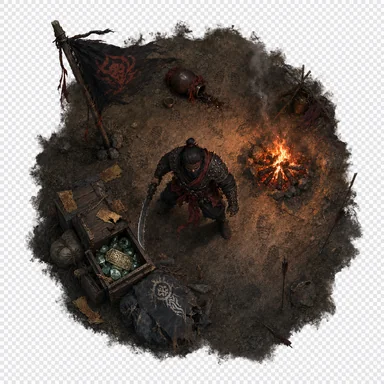
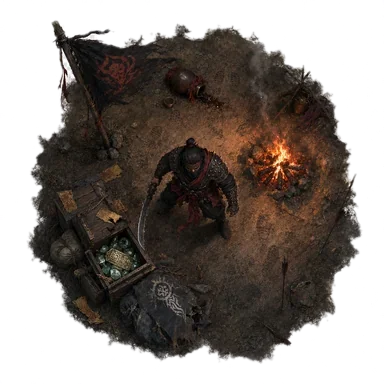
fix(S7A): 抠掉劫匪瓦片背景灰色棋盘格，使其在战场上正确呈现透明圆形

Changed region(s): [[0.0, 0.0, 1.0, 1.0]]

diff --git a/scripts/extract_tile_enemy.py b/scripts/extract_tile_enemy.py
@@ -1,0 +1,117 @@
+# -*- coding: utf-8 -*-
+"""
+抠出 tile_enemy 的劫匪营地（圆形主体），消除外圈灰色棋盘格背景。
+
+策略：
+1. 读取原始图（自动支持 PNG/WebP）。
+2. 从画布四角 flood-fill：识别与四角连通的浅灰棋盘格背景。
+3. 形态学扩张 1 像素吃掉抗锯齿边缘。
+4. 高斯羽化生成柔和 alpha。
+5. 输出 WebP (RGBA)，覆盖 public/images/map/tile_enemy.webp。
+
+用法：
+  python scripts/extract_tile_enemy.py [输入图绝对路径]
+  - 不传参时，默认读取 public/images/map/tile_enemy.webp（就地抠图）
+  - 调试图保存到 scripts/_tile_enemy_cutout.png（每次会被覆盖，可手动删）
+"""
+from pathlib import Path
+import sys
+
+import numpy as np
+from PIL import Image, ImageDraw, ImageFilter
+
+ROOT = Path(__file__).resolve().parent.parent
+DST_WEBP = ROOT / "public" / "images" / "map" / "tile_enemy.webp"
+DBG_PNG = ROOT / "scripts" / "_tile_enemy_cutout.png"
+
+
+def is_grayish_light(arr: np.ndarray) -> np.ndarray:
+    """像素是否为浅灰：r/g/b 极接近且亮度在 195~252。"""
+    r, g, b = arr[..., 0], arr[..., 1], arr[..., 2]
+    max_ch = np.maximum(np.maximum(r, g), b)
+    min_ch = np.minimum(np.minimum(r, g), b)
+    luma = (r.astype(np.int16) + g + b) // 3
+    return ((max_ch - min_ch) <= 8) & (luma >= 195) & (luma <= 252)
+
+
+def dilate_1px(mask: np.ndarray) -> np.ndarray:
+    """对 bool mask 做 1 像素 4-邻域膨胀。"""
+    out = mask.copy()
+    out[1:, :] |= mask[:-1, :]
+    out[:-1, :] |= mask[1:, :]
+    out[:, 1:] |= mask[:, :-1]
+    out[:, :-1] |= mask[:, 1:]
+    return out
+
+
+def main() -> None:
+    src_arg = sys.argv[1] if len(sys.argv) > 1 else None
+    src_path = Path(src_arg).resolve() if src_arg else DST_WEBP
+    if not src_path.exists():
+        raise SystemExit(f"输入图不存在: {src_path}")
+
+    print(f"input  : {src_path}")
+    raw = Image.open(src_path)
+
+    # 防误操作：已抠过的 RGBA 图（存在透明像素）跳过，避免反复侵蚀
+    if raw.mode == "RGBA":
+        a = np.asarray(raw.split()[-1])
+        if (a < 255).any():
+            raise SystemExit(
+                "输入图已是带透明通道的 RGBA，疑似已抠过。如需强制重跑，请改名或先转回 RGB。"
+            )
+
+    im = raw.convert("RGB")
+    arr = np.asarray(im, dtype=np.uint8)
+    h, w, _ = arr.shape
+    print(f"size   : {w}x{h}")
+
+    # 1) 浅灰候选 mask
+    gray_mask = is_grayish_light(arr)
+
+    # 2) 用 PIL.ImageDraw.floodfill 从四角进行连通区域填充
+    #    我们把候选灰色像素涂成纯白 255、其它涂成黑 0，做单通道图像
+    base = (gray_mask.astype(np.uint8) * 255)
+    base_img = Image.fromarray(base, mode="L")
+
+    # 创建一个工作图：把目标区域（255）逐个从四角 flood-fill 成 128（标记为"画布外背景"）
+    work = base_img.copy()
+    seeds = [(0, 0), (w - 1, 0), (0, h - 1), (w - 1, h - 1)]
+    for sx, sy in seeds:
+        if work.getpixel((sx, sy)) == 255:
+            ImageDraw.floodfill(work, (sx, sy), value=128, thresh=0)
+
+    work_arr = np.asarray(work)
+    bg_mask = work_arr == 128  # 与四角连通的灰色
+
+    if not bg_mask.any():
+        print("WARN: 未从四角检测到棋盘格背景，可能源图已是干净底，回退到全部灰色")
+        bg_mask = gray_mask
+
+    # 3) 1 像素膨胀，吃掉边缘抗锯齿
+    bg_mask = dilate_1px(bg_mask)
+
+    # 4) alpha
+    alpha = np.where(bg_mask, 0, 255).astype(np.uint8)
+    alpha_img = Image.fromarray(alpha, mode="L").filter(ImageFilter.GaussianBlur(radius=1.0))
+
+    rgba = im.copy()
+    rgba.putalpha(alpha_img)
+
+    DBG_PNG.parent.mkdir(parents=True, exist_ok=True)
+    rgba.save(DBG_PNG, optimize=True)
+    print(f"debug PNG: {DBG_PNG} ({DBG_PNG.stat().st_size/1024:.1f} KB)")
+
+    DST_WEBP.parent.mkdir(parents=True, exist_ok=True)
+    rgba.save(DST_WEBP, format="WEBP", quality=85, method=6)
+    print(f"output WEBP: {DST_WEBP} ({DST_WEBP.stat().st_size/1024:.1f} KB)")
+
+    # 统计透明 / 不透明像素
+    transparent = int((alpha == 0).sum())
+    opaque = int((alpha == 255).sum())
+    feather = int(((alpha > 0) & (alpha < 255)).sum())
+    print(f"alpha stats — transparent: {transparent}  opaque: {opaque}  feather: {feather}")
+
+
+if __name__ == "__main__":
+    main()
